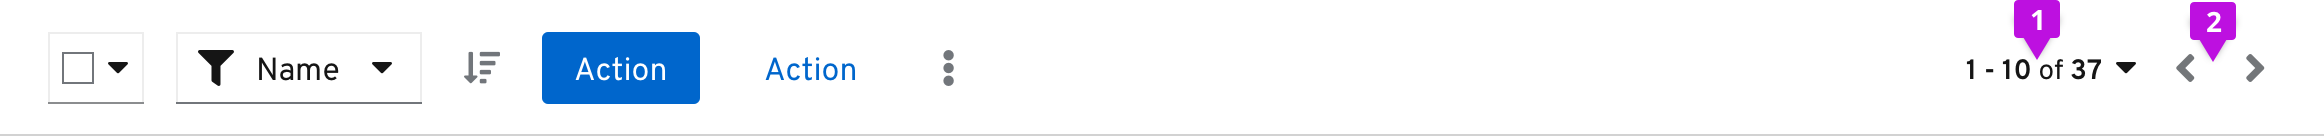
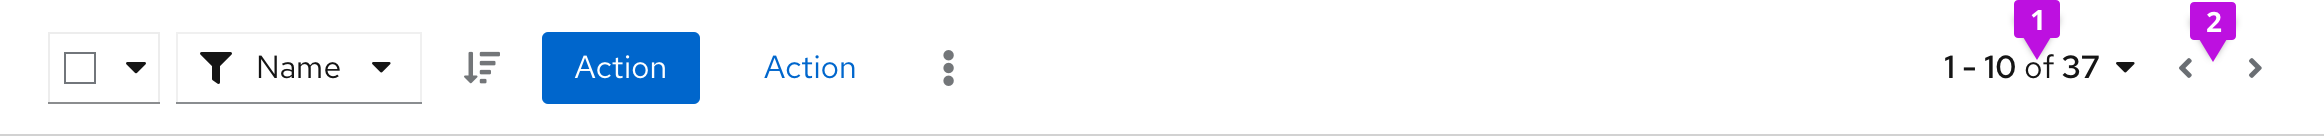
updating pagination images

diff --git a/packages/v4/src/content/design-guidelines/usage-and-behavior/pagination/pagination.md b/packages/v4/src/content/design-guidelines/usage-and-behavior/pagination/pagination.md
@@ -8,7 +8,7 @@ Pagination splits data across multiple pages, typically within a table, list, or
 
 Add pagination above and below content views so users can easily navigate as they read through listed items on a page.
 
-![top-bottom-pagination](./img/top-bottom-pagination.png)
+<img src="./img/full-page.png" alt="Example of pagination on full page table" width="990"/>
 
 **1. Top pagination:** Always right-align pagination in the top toolbar, above content views.
 
@@ -24,7 +24,7 @@ Desktop and mobile views connect with the same breakpoint specifications. On mob
 
 Desktop full pagination in toolbar
 
-![full-pagination](./img/full-pagination.png)
+<img src="./img/full-pagination.png" alt="Example of full pagination" width="990"/>
 
 **1. Items in view:** Allows the user to select the item count (number of listed items) per page.
 
@@ -32,7 +32,7 @@ Desktop full pagination in toolbar
 
 Mobile full pagination in toolbar
 
-![mobile-pagination](./img/mobile-pagination.png)
+<img src="./img/mobile-pagination.png" alt="Example of pagination on mobile table view" width="375"/>
 
 **1. Items in view:** At this screen size, the top toolbar only shows the item count to indicate items currently in view. It hides all other pagination controls. 
 
@@ -44,7 +44,7 @@ Compact pagination fits more actions into top toolbars with limited space. Choos
 
 Desktop compact pagination in toolbar
 
-![compact-pagination](./img/compact-pagination.png)
+<img src="./img/compact-pagination.png" alt="Example of compact pagination" width="990"/>
 
 **1. Items in view:** Allows the user to select the item count (number of listed items) per page, as seen in full pagination.
 
